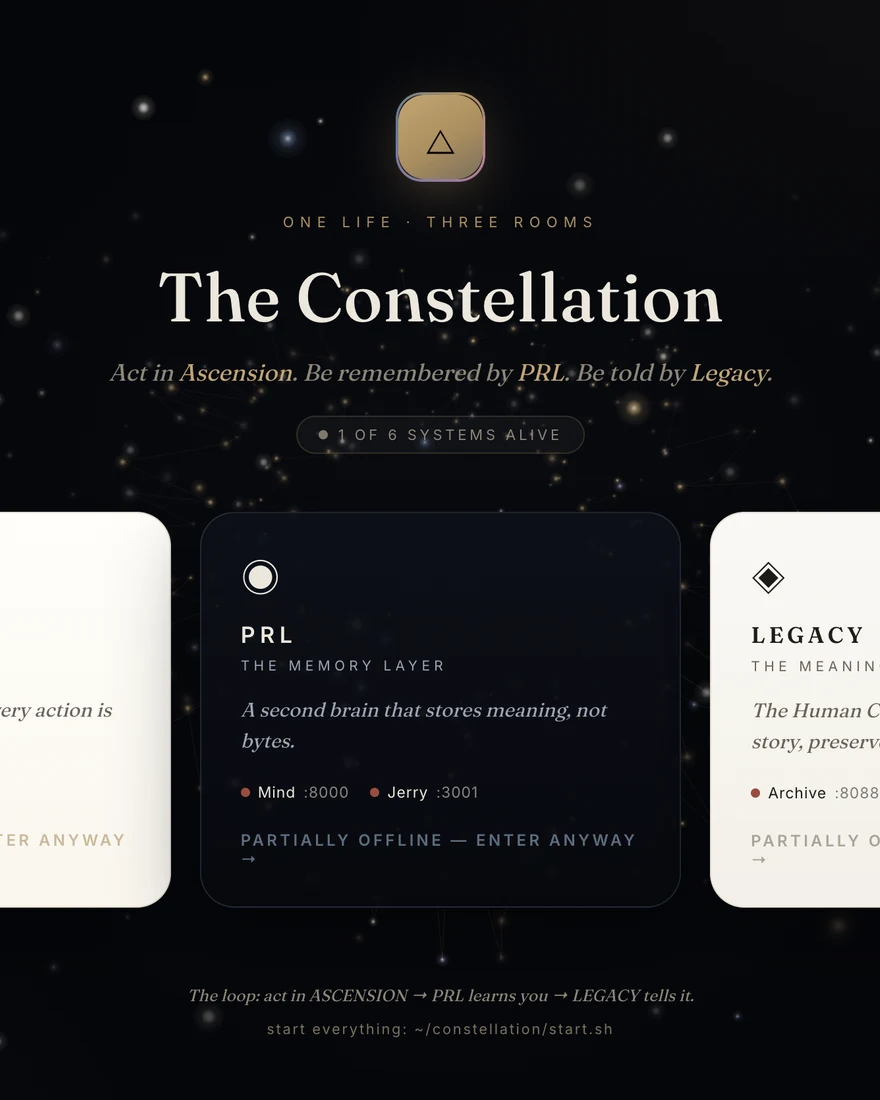
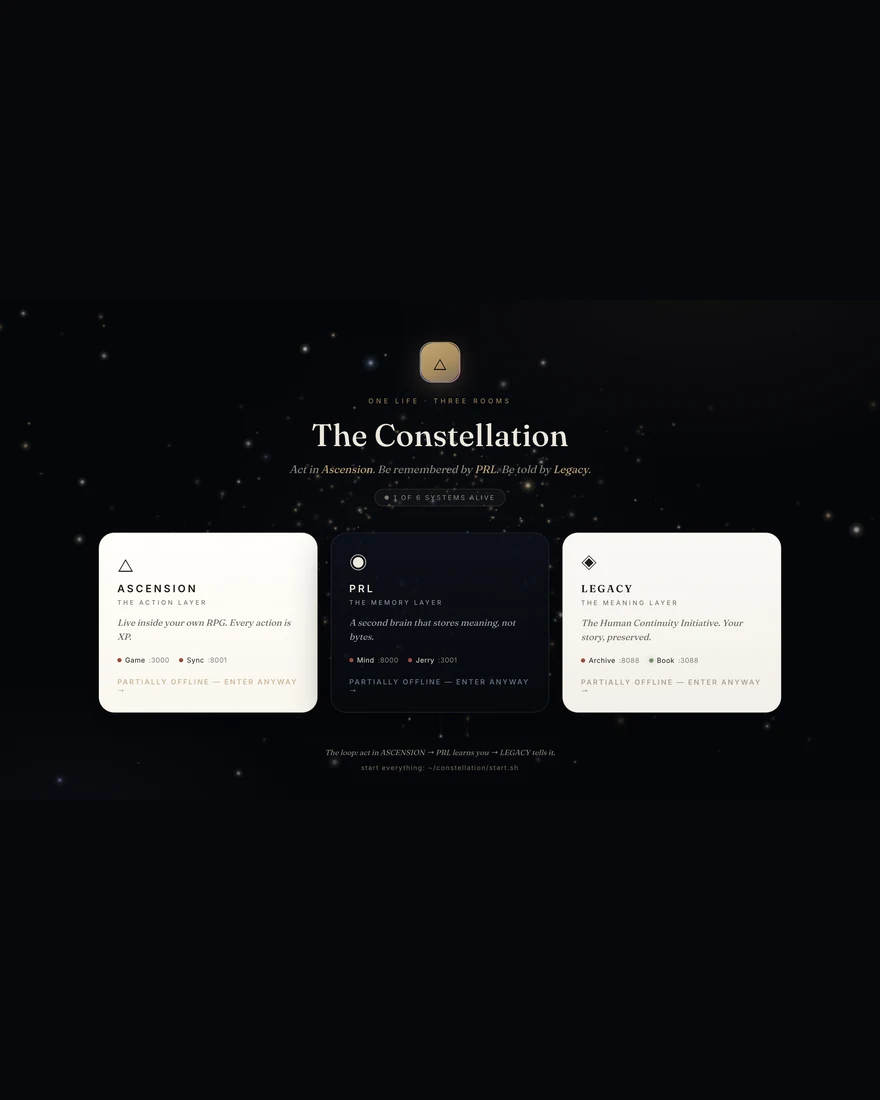
Revert "Make all project screenshots full-bleed cover crops to fill cards completely"
This reverts commit 5db89caca75c3ddfeb6ff502b4280e285b152157.

diff --git a/index.html b/index.html
@@ -244,7 +244,7 @@
         <div class="work__cell" data-title="Transaction Graph Engine" data-stack="Python · TypeScript">
           <a class="card project-card" href="https://github.com/BYTEJAYS/TRANSACTION-GRAPH-ENGINE" target="_blank" rel="noopener" data-project-card>
             <div class="project-card__visual">
-              <img class="project-card__image" src="assets/images/projects/transaction-graph-engine.webp?v=3" alt="" loading="lazy" decoding="async" width="880" height="1100" />
+              <img class="project-card__image" src="assets/images/projects/transaction-graph-engine.webp" alt="" loading="lazy" decoding="async" width="880" height="1100" />
             </div>
             <div class="project-card__top">
               <span class="project-card__number" aria-hidden="true">01</span>
@@ -261,7 +261,7 @@
         <div class="work__cell" data-title="Personal Reality Layer" data-stack="Python · Next.js">
           <a class="card project-card" href="https://github.com/BYTEJAYS/PERSONAL-REALITY-LAYER" target="_blank" rel="noopener" data-project-card>
             <div class="project-card__visual">
-              <img class="project-card__image" src="assets/images/projects/personal-reality-layer.webp?v=3" alt="" loading="lazy" decoding="async" width="880" height="1100" />
+              <img class="project-card__image" src="assets/images/projects/personal-reality-layer.webp" alt="" loading="lazy" decoding="async" width="880" height="1100" />
             </div>
             <div class="project-card__top">
               <span class="project-card__number" aria-hidden="true">02</span>
@@ -278,7 +278,7 @@
         <div class="work__cell" data-title="Ascension" data-stack="Next.js 14 · TypeScript">
           <a class="card project-card" href="https://github.com/BYTEJAYS/ascension" target="_blank" rel="noopener" data-project-card>
             <div class="project-card__visual">
-              <img class="project-card__image" src="assets/images/projects/ascension.webp?v=3" alt="" loading="lazy" decoding="async" width="880" height="1100" />
+              <img class="project-card__image" src="assets/images/projects/ascension.webp" alt="" loading="lazy" decoding="async" width="880" height="1100" />
             </div>
             <div class="project-card__top">
               <span class="project-card__number" aria-hidden="true">03</span>
@@ -295,7 +295,7 @@
         <div class="work__cell" data-title="Proctor" data-stack="Python · WebRTC">
           <a class="card project-card" href="https://github.com/BYTEJAYS/PROCTOR_APP" target="_blank" rel="noopener" data-project-card>
             <div class="project-card__visual">
-              <img class="project-card__image" src="assets/images/projects/proctor_app.webp?v=3" alt="" loading="lazy" decoding="async" width="880" height="1100" />
+              <img class="project-card__image" src="assets/images/projects/proctor_app.webp" alt="" loading="lazy" decoding="async" width="880" height="1100" />
             </div>
             <div class="project-card__top">
               <span class="project-card__number" aria-hidden="true">04</span>
@@ -312,7 +312,7 @@
         <div class="work__cell" data-title="BLING Blue Team" data-stack="Python · FastAPI">
           <a class="card project-card" href="https://github.com/BYTEJAYS/bling-blue-team" target="_blank" rel="noopener" data-project-card>
             <div class="project-card__visual">
-              <img class="project-card__image" src="assets/images/projects/bling-blue-team.webp?v=3" alt="" loading="lazy" decoding="async" width="880" height="1100" />
+              <img class="project-card__image" src="assets/images/projects/bling-blue-team.webp" alt="" loading="lazy" decoding="async" width="880" height="1100" />
             </div>
             <div class="project-card__top">
               <span class="project-card__number" aria-hidden="true">05</span>
@@ -329,7 +329,7 @@
         <div class="work__cell" data-title="Project Legacy" data-stack="Python · TypeScript">
           <a class="card project-card" href="https://github.com/BYTEJAYS/legacy" target="_blank" rel="noopener" data-project-card>
             <div class="project-card__visual">
-              <img class="project-card__image" src="assets/images/projects/legacy.webp?v=3" alt="" loading="lazy" decoding="async" width="880" height="1100" />
+              <img class="project-card__image" src="assets/images/projects/legacy.webp" alt="" loading="lazy" decoding="async" width="880" height="1100" />
             </div>
             <div class="project-card__top">
               <span class="project-card__number" aria-hidden="true">06</span>
@@ -346,7 +346,7 @@
         <div class="work__cell" data-title="The Constellation" data-stack="TypeScript">
           <a class="card project-card" href="https://github.com/BYTEJAYS/constellation" target="_blank" rel="noopener" data-project-card>
             <div class="project-card__visual">
-              <img class="project-card__image" src="assets/images/projects/constellation.webp?v=3" alt="" loading="lazy" decoding="async" width="880" height="1100" />
+              <img class="project-card__image" src="assets/images/projects/constellation.webp" alt="" loading="lazy" decoding="async" width="880" height="1100" />
             </div>
             <div class="project-card__top">
               <span class="project-card__number" aria-hidden="true">07</span>

diff --git a/tools/projects/process_screenshots.py b/tools/projects/process_screenshots.py
@@ -44,13 +44,13 @@ CHROME_CROP = 242             # px of macOS Chrome UI to strip from these three
 
 # repo -> (source filename on Desktop, top-crop px, treatment)
 SOURCES = {
-    "TRANSACTION-GRAPH-ENGINE": ("TGIE.png", CHROME_CROP, "cover"),
+    "TRANSACTION-GRAPH-ENGINE": ("TGIE.png", CHROME_CROP, "pad"),
     "PERSONAL-REALITY-LAYER":   ("PERSONAL REALITY LAYER.png", 0, "cover"),
-    "ascension":                ("ASCENSION.png", 0, "cover"),
-    "PROCTOR_APP":              ("PROCTOR APP.png", CHROME_CROP, "cover"),
+    "ascension":                ("ASCENSION.png", 0, "pad"),
+    "PROCTOR_APP":              ("PROCTOR APP.png", CHROME_CROP, "pad"),
     "bling-blue-team":          ("BLING BLUE TEAM.png", 0, "cover"),
-    "legacy":                   ("LEGACY.png", 0, "cover"),
-    "constellation":            ("CONSTELLATION.png", CHROME_CROP, "cover"),
+    "legacy":                   ("LEGACY.png", 0, "pad"),
+    "constellation":            ("CONSTELLATION.png", CHROME_CROP, "pad"),
 }
 
 

diff --git a/tools/projects/build_cards.py b/tools/projects/build_cards.py
@@ -28,7 +28,7 @@ DEFAULT_IMAGE = "assets/images/projects/placeholder-{n:02d}.svg"
 CARD = """        <div class="work__cell" data-title="{title}" data-stack="{stack}">
           <a class="card project-card" href="{url}" target="_blank" rel="noopener" data-project-card>
             <div class="project-card__visual">
-              <img class="project-card__image" src="{image}?v=3" alt="" loading="lazy" decoding="async" width="880" height="1100" />
+              <img class="project-card__image" src="{image}" alt="" loading="lazy" decoding="async" width="880" height="1100" />
             </div>
             <div class="project-card__top">
               <span class="project-card__number" aria-hidden="true">{number:02d}</span>
